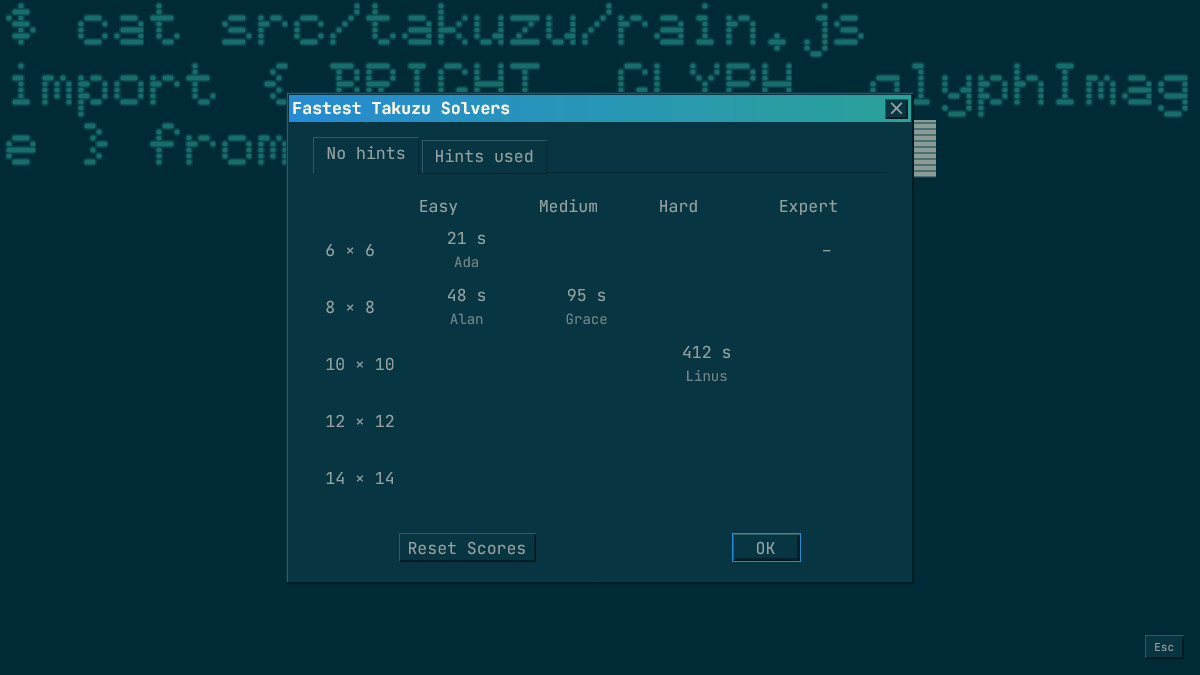
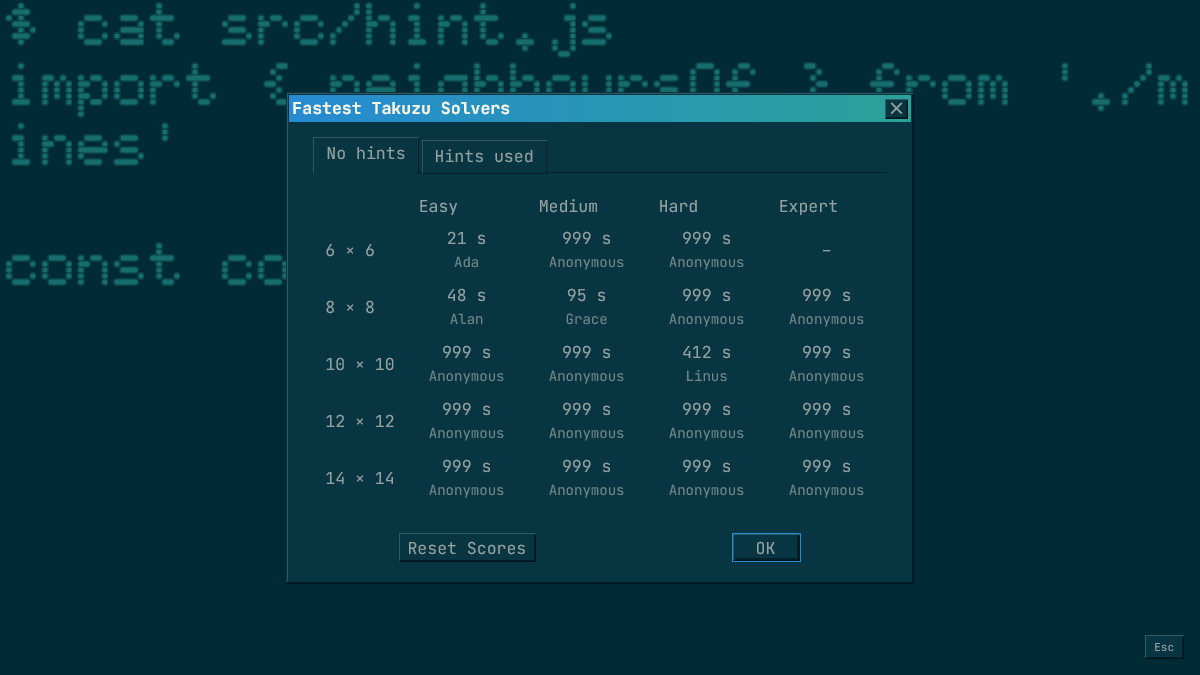
Ask about a full board only once its last cell has settled
Stepping the last cell through 0 on the way to 1 no longer asks whether
to use a hint. The question comes at once when the last click leaves the
cell at the end of its cycle, and otherwise after a moment unless the
board changes again. Entries are bold like the clues, Solarized tiles use
its yellow and violet, Takuzu's empty best time slots show 999 seconds
Anonymous like Minesweeper's, and the screenshots are retaken.

diff --git a/src/takuzu/app.test.jsx b/src/takuzu/app.test.jsx
@@ -1,4 +1,4 @@
-import { beforeEach, expect, it } from 'vitest'
+import { afterEach, beforeEach, expect, it, vi } from 'vitest'
 import { app, h } from 'hyperapp'
 import { state, actions, view, createGame } from './app'
 import { EMPTY } from './rules'
@@ -34,6 +34,8 @@ const now = () => {
 
 const left = { button: 0 }
 const right = { button: 2 }
+
+afterEach(() => vi.useRealTimers())
 
 beforeEach(() => {
   localStorage.clear()
@@ -83,38 +85,86 @@ it('undoes changes one at a time, also with ctrl+z', () => {
   expect(now().game.history).toHaveLength(0)
 })
 
-const fill = (values) => {
+//sets every open cell to its value with left clicks, leaving out skip
+const fill = (values, skip = -1) => {
   const { board, givens } = now().game
   board.forEach((_, i) => {
-    if (givens[i] !== EMPTY) return
-    const want = values[i]
-    while (now().game.board[i] !== want) wired.play({ event: left, i })
+    if (givens[i] !== EMPTY || i === skip) return
+    while (now().game.board[i] !== values[i]) wired.play({ event: left, i })
   })
 }
 
-it('asks about a full board with errors, and a yes gives a hint', () => {
-  const { solution } = now().game
+//an open cell whose answer is v, and a full board that is wrong somewhere else
+const lastCell = (v) => {
+  const { board, solution } = now().game
+  const last = [...board.keys()].find((i) => board[i] === EMPTY && solution[i] === v)
   const wrong = solution.slice()
-  const i = emptyCell()
-  wrong[i] = 1 - wrong[i]
-  fill(wrong)
-  expect(now().prompt).toBe(true)
-  expect(now().game.win).toBe(false)
-  wired.answerPrompt(true)
+  wrong[[...board.keys()].find((i) => board[i] === EMPTY && i !== last)] ^= 1
+  return { last, wrong }
+}
+
+it('does not ask while the last cell passes through 0 on its way to 1', () => {
+  vi.useFakeTimers({ toFake: ['setTimeout', 'clearTimeout'] })
+  const { last } = lastCell(1)
+  fill(now().game.solution, last)
+  wired.play({ event: left, i: last })
   expect(now().prompt).toBe(false)
-  expect(now().game.hinted).toBe(true)
-  expect(['break', 'wrong']).toContain(now().hint.kind)
+  wired.play({ event: left, i: last })
+  expect(now().game.win).toBe(true)
+  vi.advanceTimersByTime(3000)
+  expect(now().prompt).toBe(false)
 })
 
-it('leaves the player to fix a full board on a no', () => {
-  const { solution } = now().game
-  const wrong = solution.slice()
-  wrong[emptyCell()] ^= 1
-  fill(wrong)
+it('asks at once when the last click ends a cell on its final value', () => {
+  const { last, wrong } = lastCell(1)
+  fill(wrong, last)
+  wired.play({ event: left, i: last })
+  wired.play({ event: left, i: last })
+  expect(now().prompt).toBe(true)
+  expect(now().game.win).toBe(false)
+})
+
+it('asks a little later when the last cell may still be on its way, unless it changes', () => {
+  vi.useFakeTimers({ toFake: ['setTimeout', 'clearTimeout'] })
+  const { last, wrong } = lastCell(1)
+  fill(wrong, last)
+  wired.play({ event: left, i: last })
+  expect(now().prompt).toBe(false)
+  vi.advanceTimersByTime(2500)
+  expect(now().prompt).toBe(true)
+  wired.answerPrompt(false)
+  //a right click to 1 is part way round too, and changing the board again drops the question
+  wired.play({ event: left, i: last })
+  wired.answerPrompt(false)
+  wired.play({ event: left, i: last })
+  wired.play({ event: right, i: last })
+  expect(now().game.board[last]).toBe(1)
+  expect(now().prompt).toBe(false)
+  vi.advanceTimersByTime(1000)
+  wired.undo()
+  vi.advanceTimersByTime(2000)
+  expect(now().prompt).toBe(false)
+  wired.play({ event: right, i: last })
+  vi.advanceTimersByTime(2500)
+  expect(now().prompt).toBe(true)
+})
+
+it('gives a hint on a yes and leaves the player alone on a no', () => {
+  const { last, wrong } = lastCell(1)
+  fill(wrong, last)
+  wired.play({ event: left, i: last })
+  wired.play({ event: left, i: last })
   wired.answerPrompt(false)
   expect(now().prompt).toBe(false)
   expect(now().hint).toBe(null)
   expect(now().game.hinted).toBe(false)
+  //a right click back to 0 is as far as that way goes
+  wired.play({ event: right, i: last })
+  expect(now().prompt).toBe(true)
+  wired.answerPrompt(true)
+  expect(now().prompt).toBe(false)
+  expect(now().game.hinted).toBe(true)
+  expect(['break', 'wrong']).toContain(now().hint.kind)
 })
 
 it('wins on the solution and offers a best time', () => {
@@ -126,7 +176,7 @@ it('wins on the solution and offers a best time', () => {
   wired.submitBestTime({ preventDefault() {} })
   expect(localStorage.getItem('takuzu.6.1')).toBe(String(game.time))
   expect(now().bestTime.clean['6.1']).toEqual({ time: game.time, name: 'Ada' })
-  expect(now().bestTime.clean['8.1']).toBe(null)
+  expect(now().bestTime.clean['8.1']).toEqual({ time: 999, name: 'Anonymous' })
 })
 
 it('counts a hint before the first move, and starts the clock', () => {

diff --git a/src/takuzu/app.jsx b/src/takuzu/app.jsx
@@ -32,6 +32,7 @@ export const createGame = ({ n, level }) => ({
   solution: null,
   board: emptyBoard(n),
   history: [],
+  change: 0,
   dealing: true,
   deal: 0,
   start: -1,
@@ -53,8 +54,8 @@ const bestTimes = (hinted) =>
   Object.fromEntries(
     eachSlot((n, level, slot) => {
       const key = timeKey(n, level, hinted)
-      const time = parseInt(load(key), 10) || null
-      return [slot, time && { time, name: load(`${key}.name`) || 'Anonymous' }]
+      const time = parseInt(load(key), 10) || 999
+      return [slot, { time, name: load(`${key}.name`) || 'Anonymous' }]
     }),
   )
 
@@ -70,7 +71,11 @@ const clearBestTimes = (hinted) => {
 //a click steps forward through these, a right click back
 const cycle = [EMPTY, 0, 1]
 
+//a full board with errors waits this long before asking, when its last cell may still be on its way
+const ASK_AFTER = 2500
+
 let deals = 0
+let changes = 0
 
 const prevent = (event) => {
   event.preventDefault()
@@ -85,14 +90,18 @@ const begin = (game, actions) => {
 }
 
 //after a cell changes: a win, or a full board that isn't one
-const changed = (game, board, history, actions) => {
-  const next = { ...begin(game, actions), board, history }
+//settled means another click the same way would only empty the cell again, so ask now
+//otherwise the cell may be passing through on its way to the value meant, so ask later
+const changed = (game, board, history, actions, settled = false) => {
+  const next = { ...begin(game, actions), board, history, change: ++changes }
   next.win = solved(board, next.n)
   if (next.win) {
     cancelAnimationFrame(next.raf)
     actions.win(next)
   }
-  return { hint: null, prompt: !next.win && full(board), game: next }
+  const stuck = !next.win && full(board)
+  if (stuck && !settled) setTimeout(() => actions.ask(next.change), ASK_AFTER)
+  return { hint: null, prompt: stuck && settled, game: next }
 }
 
 export const state = {
@@ -166,10 +175,19 @@ export const actions = {
     ({ game }, actions) => {
       if (event.button !== 0 && event.button !== 2) return null
       if (game.dealing || game.paused || game.win || game.givens[i] !== EMPTY) return null
+      const back = event.button === 2
       const from = game.board[i]
       const board = game.board.slice()
-      board[i] = cycle[(cycle.indexOf(from) + (event.button === 2 ? 2 : 1)) % 3]
-      return changed(game, board, [...game.history, [i, from]], actions)
+      board[i] = cycle[(cycle.indexOf(from) + (back ? 2 : 1)) % 3]
+      const settled = board[i] === (back ? 0 : 1)
+      return changed(game, board, [...game.history, [i, from]], actions, settled)
+    },
+  //the delayed question, dropped if the board changed or the game moved on meanwhile
+  ask:
+    (change) =>
+    ({ game }) => {
+      if (game.change !== change || game.win || game.paused || !full(game.board)) return null
+      return { prompt: true }
     },
   undo:
     () =>

diff --git a/src/takuzu/Cell.module.css b/src/takuzu/Cell.module.css
@@ -14,9 +14,9 @@
 }
 
 :global(:root:is([data-theme='solarized'], [data-theme='solarized-phosphor'])) {
-  --tz-zero: #268bd2;
-  --tz-zero-text: #fdf6e3;
-  --tz-one: #cb4b16;
+  --tz-zero: #b58900;
+  --tz-zero-text: #002b36;
+  --tz-one: #6c71c4;
   --tz-one-text: #fdf6e3;
 }
 
@@ -73,7 +73,6 @@
 .zero {
   composes: root;
   color: var(--tz-zero-text);
-  font-weight: normal;
   background: var(--tz-zero);
   box-shadow: inset 1px 1px 0 var(--cell-shadow);
 }
@@ -81,14 +80,12 @@
 .one {
   composes: root;
   color: var(--tz-one-text);
-  font-weight: normal;
   background: var(--tz-one);
   box-shadow: inset 1px 1px 0 var(--cell-shadow);
 }
 
-/*clues are bold with a frame in their own text colour, and can't be changed*/
+/*clues have a frame in their own text colour and can't be changed*/
 .given {
-  font-weight: bold;
   box-shadow:
     inset 1px 1px 0 var(--cell-shadow),
     inset 0 0 0 3px color-mix(in srgb, currentColor 45%, transparent);

diff --git a/src/takuzu/BestTimes.jsx b/src/takuzu/BestTimes.jsx
@@ -47,7 +47,7 @@ const BestTimes = ({ key, state, actions }) => (
                   {n} × {n}
                 </th>
                 {levelNames.map((_, level) => {
-                  const best = state[state.tab][`${n}.${level}`]
+                  const best = allowed(n, level) && state[state.tab][`${n}.${level}`]
                   return (
                     <td class={s.slot}>
                       {!allowed(n, level) && '–'}

diff --git a/README.md b/README.md
@@ -33,10 +33,10 @@ Binary puzzles: fill the grid with 0s and 1s so that no row or column has three 
 - **Every board has exactly one solution** and can be solved by logic alone. Boards are made fresh each game: a random full grid, then clues taken away for as long as the chosen level can still finish it.
 - **Four levels** (Game menu), each needing its own reasoning: **Easy** uses pairs (two alike side by side) and gaps (a cell between two alike); **Medium** adds full counts (a line with all its 0s or all its 1s); **Hard** adds balance (every way to finish a line agrees on a cell) and no repeated lines; **Expert** adds a short what-if (a value that soon breaks a rule must be the other one). A board is only dealt at a level if it needs that level's reasoning.
 - **Five sizes** (Size menu), 6 × 6 to 14 × 14. Small boards never need a what-if, so 6 × 6 has no Expert.
-- **Playing**: click a cell to step it through 0, 1 and empty, right-click to step back, or tap on a touch screen. Clues are bold and framed and can't be changed. **Undo** (Ctrl+Z, the Game menu or the arrow button) takes back one change at a time.
+- **Playing**: click a cell to step it through 0, 1 and empty, right-click to step back, or tap on a touch screen. Clues are framed and can't be changed. **Undo** (Ctrl+Z, the Game menu or the arrow button) takes back one change at a time.
 - **Hint** (`H`, the Game menu or the ? button): points out a broken rule first, then a cell that can't fit the only solution, and otherwise the easiest next step with the cells it reasons from outlined in blue, the cell it fills in green and the reason under the board.
-- **Show Errors** (Game menu, off by default) stripes cells that break a rule as you go. When every cell is filled but the board isn't solved, the game asks whether you want a hint, or lets you find the mistake yourself.
-- **Colours**: the two values are tiles in near complementary colours from each theme, blue and orange on Classic and the Solarized themes, cyan and pink on Synthwave, frost and aurora on Nord, and green on black against black on green on Matrix. **Rain Glyphs** (Theme menu, on Matrix) draws them as two glyphs from the digital rain instead.
+- **Show Errors** (Game menu, off by default) stripes cells that break a rule as you go. When every cell is filled but the board isn't solved, the game asks whether you want a hint, or lets you find the mistake yourself. It asks straight away when the last click left a cell on its final value, and otherwise waits a moment, so stepping the last cell through 0 on the way to 1 never sets it off.
+- **Colours**: the two values are tiles in near complementary colours from each theme, blue and orange on Classic, yellow and violet on the Solarized themes, cyan and pink on Synthwave, frost and aurora on Nord, and green on black against black on green on Matrix. **Rain Glyphs** (Theme menu, on Matrix) draws them as two glyphs from the digital rain instead.
 - **Best times** for every size and level, with and without hints, the window title (Takuzu on Classic, Takuzu Plus elsewhere), zoom and fit, pause, the boss key and the shortcuts work as in Minesweeper Plus. Big expert boards are dealt in the background, so the window never stalls.
 
 ## Minesweeper Plus
